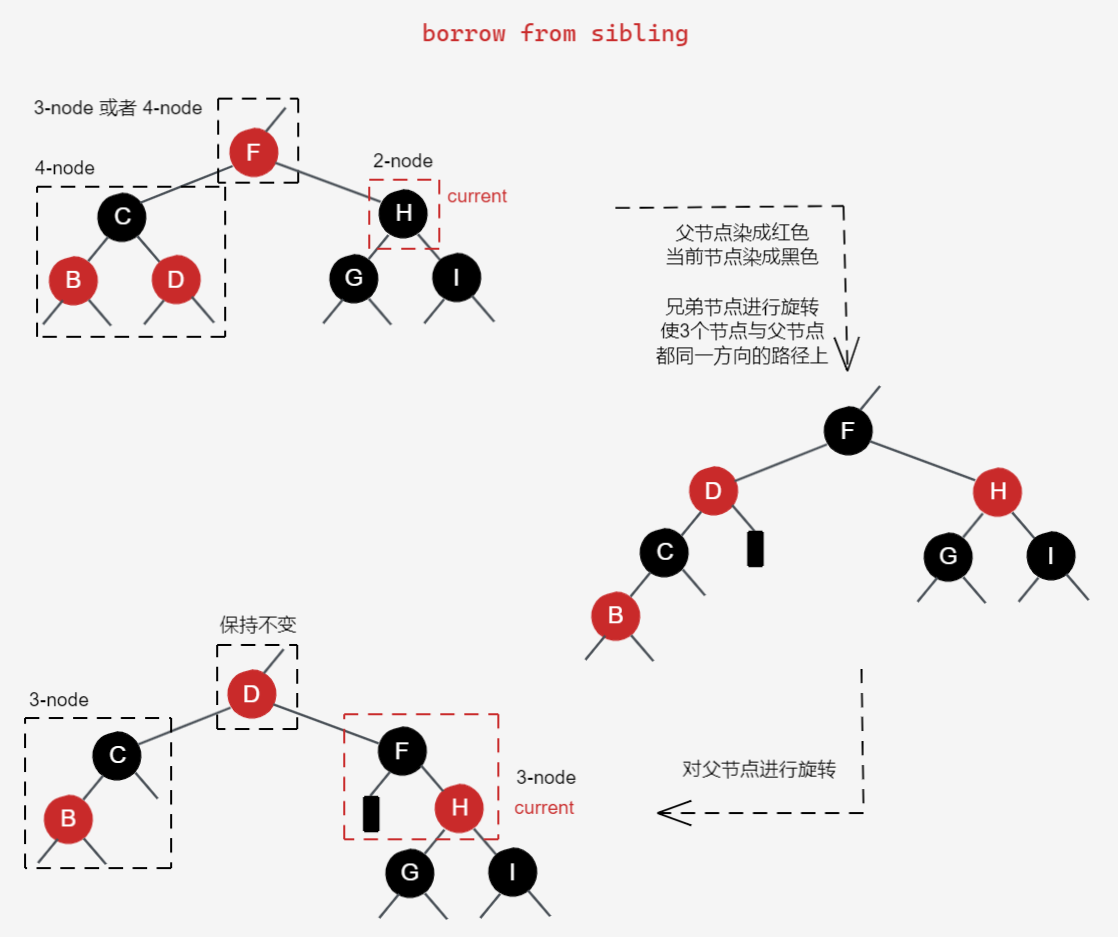
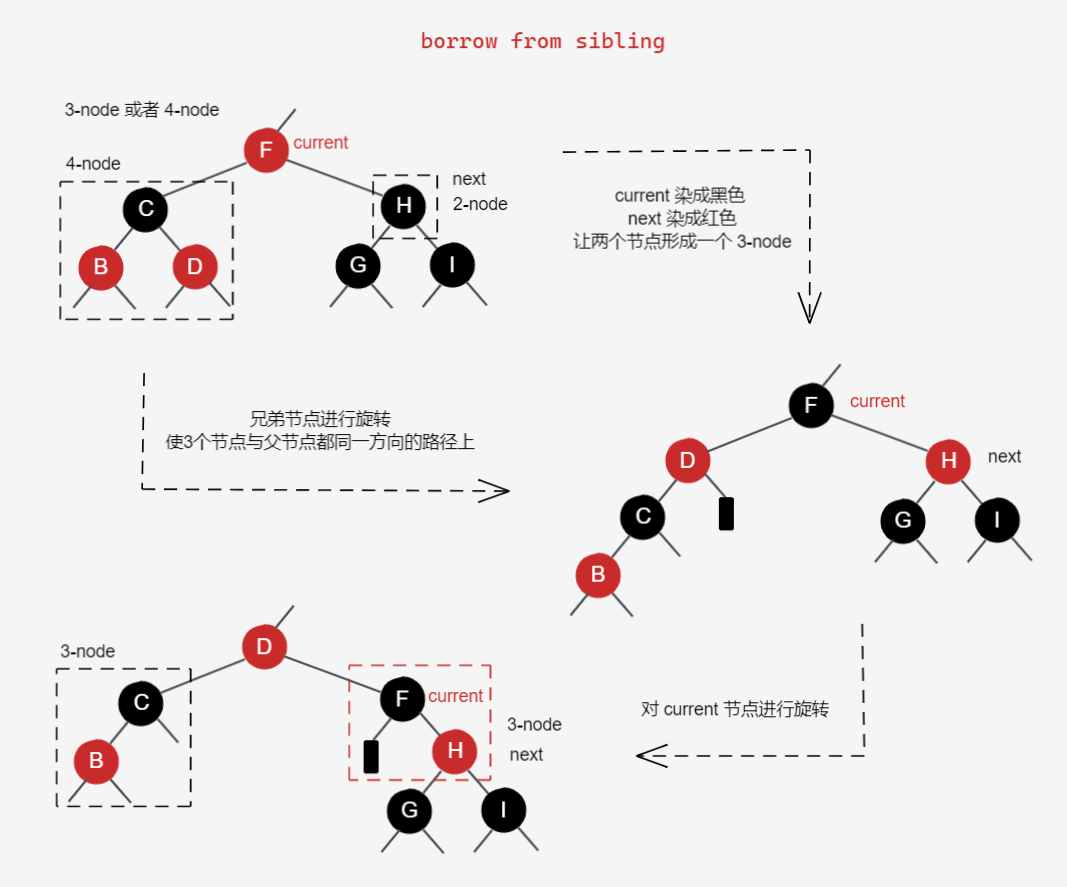
修正部分图片

diff --git a/docs/DSA/red-black-tree/README.md b/docs/DSA/red-black-tree/README.md
@@ -57,7 +57,7 @@ category: DSA
 
 这里有需要考虑的问题，如果父节点也是 4-node 怎么办？
 
-如 PPT 所说明的一样，接近方案有两种：
+如 PPT 所说明的一样，解决的方案有两种：
 1. 自底向上的解决方案：使用相同的方法对父节点进行拆分操作，不断向上处理，直到拆分的节点的父节点不是 4-node 为止
 2. 自顶向下的解决方案：先从上往下拆分 4-node，最后再进行添加操作
 
@@ -147,7 +147,7 @@ category: DSA
 
 1. 父节点是空节点；
 2. 父节点是黑色；
-3. 父节点是红色，叔叔节点为空；
+3. 父节点是红色，叔叔节点为黑色；
 4. 父节点是红色，叔叔节点是红色。
 
 ### 父节点是黑色或为空
@@ -158,11 +158,11 @@ category: DSA
 
 ![insert-1](./insert-1.jpg)
 
-### 父节点是红色，叔叔节点为空
+### 父节点是红色，叔叔节点是黑色
 
 当父节点是红色时，代表父节点与祖父节点（祖父节点必然为黑色）构成 3-node 或者 4-node。当叔叔节点为空时，代表父节点与祖父节点构成的是一个 3-node。
 
-**因为根据红黑树的性质 5，祖父节点下各个路径的黑色节点数都是相同的，因此叔叔节点只能是空节点或红色节点，不能是实际存在的黑色节点。但由于性质 4 规定空节点颜色也是黑色，有些文章可能描述为叔叔节点是黑色，但该描述所表示的节点应当是一个空节点。**
+**因为根据红黑树的性质 5，祖父节点下各个路径的黑色节点数都是相同的，因此对于新插入在树尾的情况，叔叔节点只能是空节点或红色节点，不能是实际存在的黑色节点。但在下方有一种情况需要往上继续判断树的平衡，这种时候向上转移的红色节点，其叔叔节点才有可能是一个存在的黑色节点，由于红黑树规定空节点也是黑树，因此我们可以把它们归为同一类情况。**
 
 由于红黑树不允许同一路径上拥有两个连续的红色节点，因此需要对祖父节点下的局部子树进行调整。在 2-3-4 树中，当一个节点插入到 3-node 下方时，将会直接将该节点的值放到 3-node 中，形成 4-node。
 
@@ -222,47 +222,48 @@ category: DSA
 
 *这一方法与大部分文章所使用的方法并不同，该方法来自 Robert Sedgewick 在 Left-leaning Red-Black Trees 这一篇论文中，这里没有选择大部分文章所使用的自底向上的方案，而选择使用自顶向下的方案的原因，是因为它不需要去对各种情况产生的平衡问题进行分析，以及对不同场景的解决方案进行区分，并且也不会出现遗漏的修复或者为了实际不存在的情况而编写多余的代码。*
 
-该方法的实现思路，根据兄弟节点的情况，可分为 2 种操作：
+该方法的实现思路，在进行操作时，要确保当前搜索到的 current 节点不是一个 2-node 节点。根据下一个查找节点 next 的兄弟节点的情况，可分为 2 种操作：
 
-1. **combine siblings**：兄弟节点也是 2-node，那么需要将父节点中分离一个节点出来，和兄弟节点一起形成一个 4-node；
-2. **borrow from sibling**：兄弟节点是 3-node 或者 4-node，那么只需要向兄弟节点借一个节点形成 3-node。
+1. **combine siblings**：next 节点的兄弟节点也是 2-node，那么需要将 current 节点中分离一个节点出来，和兄弟节点一起形成一个 4-node；
+2. **borrow from sibling**：next 节点的兄弟节点是 3-node 或者 4-node，那么只需要向兄弟节点借一个节点形成 3-node。
 
-相关图示如下（该图来自 Sedgewick 的 PPT 第 55 页）：
+完成合并操作后，将当前搜索到的节点 current 指向 next，相关图示如下（该图来自 Sedgewick 的 PPT 第 55 页）：
 
 ![LLRB-RedBlack-55](./LLRB-RedBlack-55.jpg)
 
-操作 1，由于是自顶向下进行查找和合并，因此除了根节点，父节点一定是一个 3-node 或者 4-node。如果根节点是一个 2-node，那么可以通过下方的两种方式解决：
-
-1. 根节点的两个子节点也是 2-node：和子节点合并成 4-node，由于该操作是根节点进行，因此不会破坏树整体的平衡；
-2. 根节点有一个子节点不是 2-node：向该节点借一个节点来形成 3-node，该方式在红黑树中可使用旋转来完成。
-
-通过上面两种方式解决根节点是 2-node 的问题，即容易理解，也不会出现需要逐层合并的情况，实现起来比较方便。
-
 ### 在红黑树中的实现方式
 
-上面 4 种操作对应到红黑树中，操作流程如下图所示：
-
-![2-node-root-dealwith](./2-node-root-dealwith.jpg)
+上面的 2 种操作对应到红黑树中，实现流程如下图所示：
 
 ![combine-siblings](./combine-siblings.jpg)
 
-Sibling 的操作比较麻烦，因为兄弟节点代表的 4-node 大小要比父节点小，因此当前节点并不是直接在兄弟节点中取一个进行合并，而是在父节点中取一个节点进行合并，父节点再从兄弟节点中拿一个进行补充。
+borrow from sibling 的操作比较麻烦，因为兄弟节点中的数据整体都要比 current 节点的小 / 大，因此 next 节点并不是直接在兄弟节点中取一个进行合并，而是在 current 节点中取一个节点进行合并，父节点再从兄弟节点中拿一个进行补充。
 
 对于兄弟节点是 4-node 的情况，需要将代表 4-node 的三个节点旋转到与父节点同一斜线上，并改变当前节点和父节点的颜色，让父节点成为一个 4-node，再对父节点进行旋转操作。
 
 ![borrow-from-sibling-1](./borrow-from-sibling-1.jpg)
 
-对于兄弟节点是 3-node 的情况，也是将父节点变成一个 4-node，当兄弟节点的红色子节点与兄弟节点和父节点在同一斜线上时，只需要交换兄弟节点和红色子节点的颜色，如果不在同一斜线，就和 4-node 一样进行一次旋转操作。
+对于兄弟节点是 3-node 的情况，也是将 current 节点变成 3-node，再从兄弟节点拿一个上去顶替。当兄弟节点的红色子节点与兄弟节点和父节点（current）在同一斜线上时，只需要交换兄弟节点和红色子节点的颜色，如果不在同一斜线，就和 4-node 一样进行一次旋转操作。
 
 ![borrow-from-sibling-2](./borrow-from-sibling-2.jpg)
 
 当在寻找删除节点和替换节点的过程中往下不断对 2-node 完成上述操作，就可以保证在最后删除的叶子节点是一个红色的节点，此时直接删除就不会破坏树的平衡，该方法在**左倾红黑树 (Left-leaning Red-Black Trees, LLRB)** 中实现更加简单。
 
+### 解决根节点是 2-node
+
+由于是自顶向下进行查找和合并，因此除了根节点，current 节点一定是一个 3-node 或者 4-node，因此该方案才能正常使用。如果根节点是一个 2-node，根据情况我们需要考虑是否需要对根节点进行操作。
+
+如果作为 2-node 的根节点的两个子节点也是 2-node，由于作为父节点的根节点不能转变成红色，没办法使用 combine siblings 操作，来让 next 节点变成 4-node，我们依旧可以让根节点和子节点合并成 4-node，由于该操作是根节点进行，因此不会破坏树整体的平衡。
+
+![2-node-root-dealwith-1](./2-node-root-dealwith-1.jpg)
+
+如果根节点中有一个节点
+
+![2-node-root-dealwith-2](./2-node-root-dealwith-2.jpg)
+
 ## 代码实现（Kotlin）
 
 在使用红黑树之前，我们应该了解一下，红黑树适合存放什么类型的数据，实际个人感觉二叉查找树应当是作为加速链表查询速度的一种替换方案，因此对于使用专门的字段来查找数据的场景，才更加适合使用红黑树这一类二叉查找树的结构。
-
-
 
 ## 参考
 
